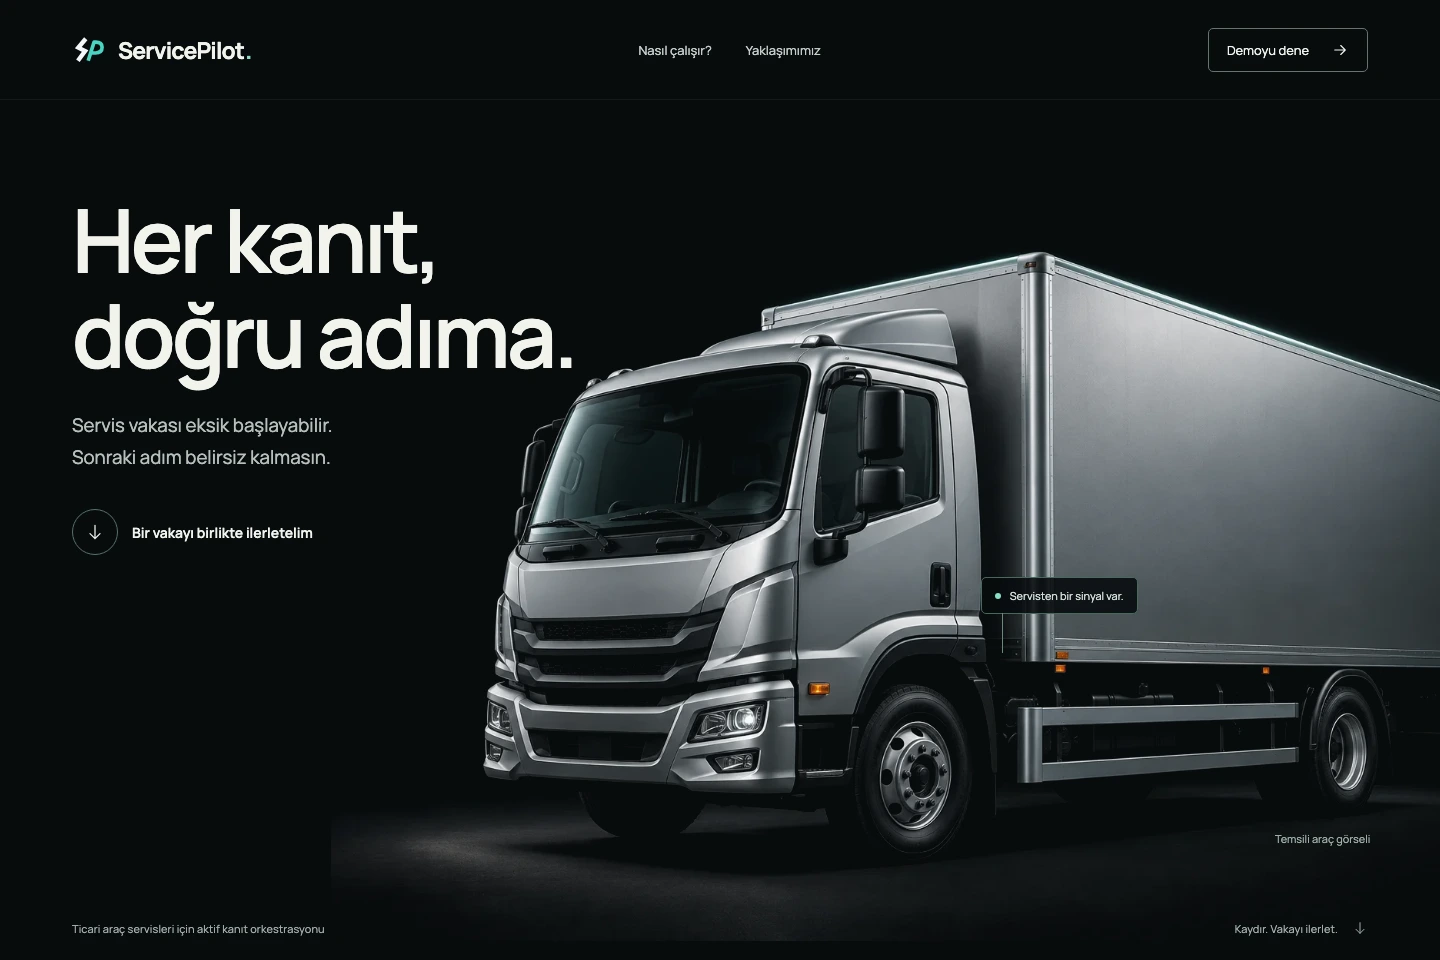
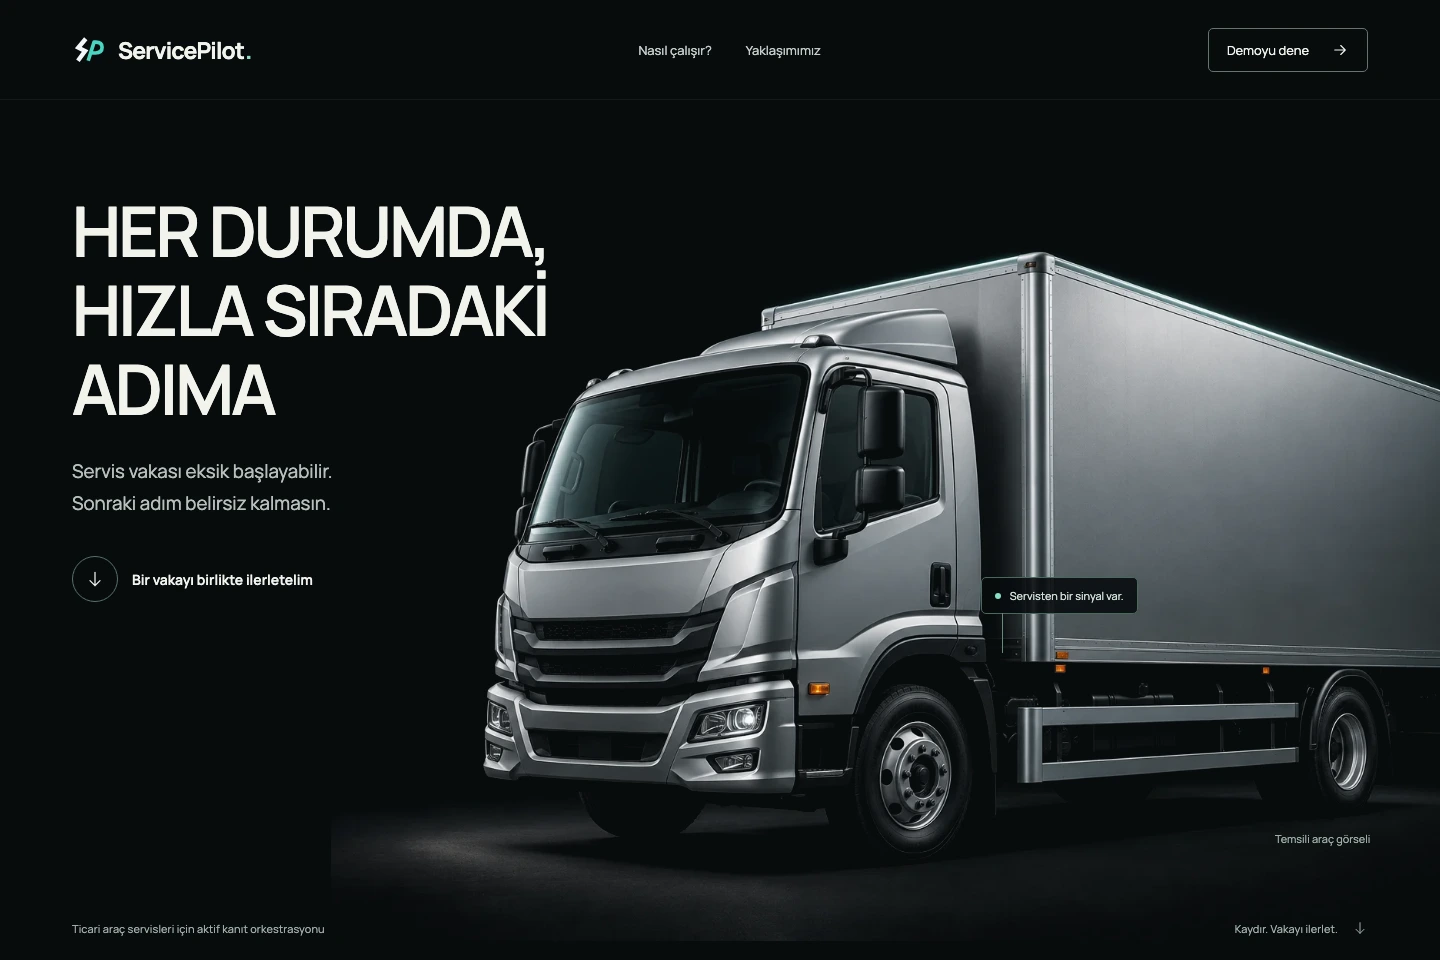
feat(landing): refine headline and publish architecture visuals [FR-23, NFR-10/11]
Refresh the README screenshot, retain the original README flow, and replace architecture Mermaid with custom Turkish SVG/PNG diagrams. Verified 25 Node tests, 23 Python tests, browser landing flow/fallbacks and image provenance.

Changed region(s): [[0.0312, 0.1875, 0.4062, 0.5625], [0.0938, 0.5938, 0.2188, 0.625]]

diff --git a/static/index.html b/static/index.html
@@ -5,7 +5,7 @@
   <meta name="viewport" content="width=device-width, initial-scale=1">
   <meta name="theme-color" content="#080c0e">
   <meta name="description" content="Bir servis vakasını kaydırarak ilerletin. ServicePilot ile eksik kanıttan risk kontrollü uzman yönlendirmesine uzanan karar döngüsünü keşfedin.">
-  <title>ServicePilot — Her kanıt, doğru adıma.</title>
+  <title>ServicePilot — HER DURUMDA, HIZLA SIRADAKİ ADIMA</title>
   <link rel="icon" href="assets/logo.svg" type="image/svg+xml">
   <link rel="preload" href="assets/manrope-latin-ext.woff2" as="font" type="font/woff2" crossorigin>
   <link rel="preload" href="assets/service-truck.webp" as="image" fetchpriority="high">
@@ -36,7 +36,7 @@
     <noscript><p class="no-script">JavaScript kapalı: aşağıda statik senaryo özetini okuyabilirsiniz. Etkileşimli karar döngüsü için JavaScript gerekir.</p></noscript>
     <section class="hero" aria-labelledby="hero-title">
       <div class="hero-copy">
-        <h1 id="hero-title">Her kanıt,<br>doğru adıma.</h1>
+        <h1 id="hero-title">HER DURUMDA,<br>HIZLA SIRADAKİ<br>ADIMA</h1>
         <p>Servis vakası eksik başlayabilir.<br>Sonraki adım belirsiz kalmasın.</p>
         <a href="#case-start" class="start-link"><span class="down-icon"><svg viewBox="0 0 24 24" aria-hidden="true"><path d="M12 4v16m-6-6 6 6 6-6"/></svg></span>Bir vakayı birlikte ilerletelim</a>
       </div>

diff --git a/static/landing.css b/static/landing.css
@@ -163,8 +163,8 @@ h2 {
   width:54%;
 }
 .hero h1 {
-  font-size:clamp(52px,6.1vw,94px);
-  line-height:1.08;
+  font-size:clamp(44px,4.8vw,74px);
+  line-height:1.14;
   max-width:660px;
 }
 .hero-copy>p {
@@ -1111,8 +1111,8 @@ html.lenis,html.lenis body {
     width:100%;
   }
   .hero h1 {
-    font-size:clamp(46px,10.8vw,72px);
-    line-height:1.1;
+    font-size:clamp(34px,9.8vw,60px);
+    line-height:1.16;
   }
   .hero-copy>p {
     font-size:14px;

diff --git a/docs/assets/README.md b/docs/assets/README.md
@@ -1,27 +1,28 @@
-# README media
+# Documentation media
 
-- `servicepilot-mark.svg`: existing `static/assets/logo.svg` monogram, unchanged paths, on a dark tile for GitHub light/dark readability. No new brand mark.
-- `landing.webp`: unaltered viewport screenshot of the published landing, 1440×960, captured 2026-10-31 during release verification of `0228975`. WebP quality 92.
-- `live-demo.webp`: unaltered viewport screenshot of the same published release's operational demo, 1440×960. One synthetic CAN case received real anonymous Jev HTTP 200 (`signal_source:jev`). WebP quality 94. Displayed probability and latency belong to that single illustrative case, not a performance/accuracy benchmark. No real customer data.
-- `decision-flow.svg`: original hand-authored vector description of the existing `app/jev.py`, `app/raep.py` and static/Worker flow. No measured results or performance figures. Safety rules bypass Jev; ordinary evidence updates re-enter the safety check and sensor/policy loop. ROUTE is an expert-team recommendation requiring confirmation, not automatic diagnosis or repair.
+- `servicepilot-mark.svg`: existing `static/assets/logo.svg` monogram on a dark tile. Original paths; no new brand mark.
+- `landing.webp`: actual **local** Chromium screenshot at `http://127.0.0.1:5187/`, 1440×960, captured 2026-11-01 with the selected headline **HER DURUMDA, HIZLA SIRADAKİ ADIMA**. Refined headline: 69.12px at 1440px viewport (line-height 1.14), 38.22px at 390px (line-height 1.16). WebP quality 92. No compositing or UI reconstruction; this is not a published-release capture.
+- `live-demo.webp`: unchanged screenshot of published release `0228975`, 1440×960, captured 2026-10-31. One synthetic CAN case received real anonymous Jev HTTP 200 (`signal_source:jev`). Probability and latency describe that single example, not accuracy/speed benchmarks. WebP quality 94; no real customer data.
+- `decision-flow.svg`: **original README flow design, unchanged**. Jev produces signals; RAEP selects the action; safety rules bypass Jev. Expert diagnosis, human confirmation and actual delivery are not automated by this diagram.
+- `architecture-components.svg` and `architecture-decision.svg`: custom vector diagrams with plain Turkish labels, authored against `app/main.py`, `app/jev.py`, `app/catalog.py` and `app/raep.py`. No Mermaid. Avenir Next with Arial/sans-serif fallbacks; warm paper, green for useful progress, amber for a check and coral for human intervention. Safety, unavailable inference, evidence loop, request limit and hierarchical fallback remain explicit.
+- `architecture-*.png`: 2× raster renders of those SVG sources, embedded directly in `specs/ARCHITECTURE.md` for Markdown-preview compatibility. PNG metadata records source and render provenance. Use the linked SVG to inspect at any zoom.
 
-Screenshots are re-used from the verified release captures `/tmp/servicepilot-release-landing.png` and `/tmp/servicepilot-release-demo.png`; they were not generated or reconstructed. No further provider request was made to create README media. The landing's representative truck is an original generated concept image; its prompt provenance is in `static/assets/service-truck.webp.json`.
+The landing screenshot is sourced from `/tmp/servicepilot-new-heading-1440.png`; the unchanged demo screenshot was sourced from `/tmp/servicepilot-release-demo.png`. No provider call was needed for this update. The truck is a labelled generated concept visual, not a partner vehicle; its original prompt is in `static/assets/service-truck.webp.json`.
 
 ## Regenerate
 
-The original README flow SVG is preserved. Architecture diagrams use native Mermaid blocks; formulas use Typst 0.14.2 (embedded Libertinus Serif / New Computer Modern Math; Arial for headings). The calligraphic `𝒮_e` is the evidence leaf set; plain `S_e` is the safety/operation cost. This disambiguates the notation without changing RAEP.
+Formulas use Typst 0.14.2 with embedded Libertinus Serif / New Computer Modern Math and Arial headings. Calligraphic `𝒮_e` is the evidence leaf set; plain `S_e` is safety/operation cost. The notation does not change RAEP.
 
 ```sh
 typst compile docs/assets/raep-formulas.typ 'docs/assets/raep-formula-{p}.svg'
-# Mermaid CLI 11.12.0 (documentation tooling only, not an app dependency):
-npx --yes @mermaid-js/mermaid-cli@11.12.0 \
-  -i specs/ARCHITECTURE.md -o /tmp/servicepilot-architecture.svg
+# librsvg 2.62.0; Avenir Next installed on the macOS rendering host:
+for name in architecture-components architecture-decision; do
+  rsvg-convert --zoom 2 "docs/assets/$name.svg" -o "docs/assets/$name.png"
+done
 ```
 
-For an existing Chrome/Chromium installation, pass `-p /path/to/puppeteer.json` containing `{"executablePath":"/absolute/path/to/chrome"}`. No browser path or tooling dependency is added to the app. Native Mermaid blocks in `specs/ARCHITECTURE.md` render directly on GitHub.
-
-Sources: [Typst math](https://typst.app/docs/reference/math/), [Mermaid flowcharts](https://mermaid.js.org/syntax/flowchart.html), [Mermaid CLI](https://github.com/mermaid-js/mermaid-cli).
+Edit the SVG sources directly, then regenerate the PNGs; keep the source/render provenance in PNG metadata via `impeccable embed-prompt` after rendering. No diagram dependency or build step is added to the app. See [Typst math](https://typst.app/docs/reference/math/) for formula syntax.
 
 ## Verification
 
-Screenshot provenance above is unchanged. Formula SVGs compile from the checked-in Typst source; both architecture Mermaid blocks render through Mermaid CLI. The README decision SVG retains its original design. Relative links and SVG XML are checked. Light/dark and mobile local GitHub-Markdown previews are reviewed; runtime files are unchanged. Fresh checks: 23 Python tests and 24 Node tests passed; one existing Starlette/httpx deprecation warning. Both Mermaid blocks render, the three Typst SVGs reproduce byte-for-byte, relative links resolve, and all images load in light/dark previews at 1000px and 390px without document overflow. These are local GFM previews, not a live-browser release check.
+2026-11-01: 23 Python and 25 Node tests passed (one existing Starlette/httpx deprecation warning). Landing browser checks passed at 1440/768/390px, including six chapters, safety toggle, reverse navigation, reduced motion, short screens, missing JS/vendors and old demo links; zero provider calls. The new headline also fits at 320px. Diagram text containment, SVG XML, PNG sizes, image links and local GFM light/dark previews at 1000px and 390px are checked. The original README decision-flow SVG is unchanged. These checks do not prove a public deployment.

diff --git a/specs/REQUIREMENTS.md b/specs/REQUIREMENTS.md
@@ -46,4 +46,4 @@ Her gereksinim bir kabul kriteri (AC) taşır. Kod değişiklikleri bu ID'lere r
 | NFR-8 | Dayanıklılık | Jev hatası/zaman aşımında vaka bozulmaz; adım `ESCALATE` (sebep: "Jev erişilemedi") olarak kaydedilir. |
 | NFR-9 | Statik yayın | GitHub Pages yalnız `static/` dosyalarını HTTPS ile `/ServicePilot/` altında yayımlar. Anahtar, SQLite ve Python kaynakları yayın artifact'ına girmez. Statik mod canlı Jev gibi sunulmaz. `main` güncellemeleri ve manuel tetikleme aynı kontrollü workflow'u kullanır. |
 | NFR-10 | Landing erişilebilirliği | Klavye ile bölüm seçimi, görünür odak, semantik anlatı, 390/768/1440px taşmasız düzen. Azaltılmış hareket veya animasyon kütüphanesi yokluğunda tüm adımlar normal belge akışında okunur. Yerel vendor dosyaları ve fontlar; build adımı gerekmez. |
-| NFR-11 | Görsel proje tanıtımı | README; gerçek logo/ekran görüntüleri, rozetler, kısa açıklamalar ve oklarla sıralı karar akışı SVG’si içerir. Jev sinyali, RAEP kararı, güvenlik bypass’ı, kanıt döngüsü ve canlı/temsili ayrımı korunur. Mimari formülleri Typst kaynağından SVG olarak üretilir; mimari akışlar Mermaid kaynağıyla korunur ve SVG yeniden üretim komutları belgelenir. Kurulum ve operasyon belgelerine erişim kaybolmaz; doğrulanmamış performans/ortaklık/lisans iddiası eklenmez. |
+| NFR-11 | Görsel proje tanıtımı | README; gerçek logo/ekran görüntüleri, rozetler, kısa açıklamalar ve oklarla sıralı karar akışı SVG’si içerir. Jev sinyali, RAEP kararı, güvenlik bypass’ı, kanıt döngüsü ve canlı/temsili ayrımı korunur. Mimari formülleri Typst kaynağından SVG olarak üretilir; Mimari diyagramları sade Türkçeyle özel SVG olarak çizilir; PNG çıktıları Markdown önizlemesinde gösterilir ve yeniden üretim komutları belgelenir. README akış SVG’si korunur; landing ekran görüntüsü güncel başlığı yansıtır. Kurulum ve operasyon belgelerine erişim kaybolmaz; doğrulanmamış performans/ortaklık/lisans iddiası eklenmez. |

diff --git a/.impeccable/surfaces/static-index-html.md b/.impeccable/surfaces/static-index-html.md
@@ -13,7 +13,7 @@ Mode: Persuade / Experience. User confirmed code-first. User rejected a link-led
 THESIS: One incomplete commercial-vehicle case becomes a prepared expert handoff through scrolling. Refuse the feature-card landing and fake AI diagnosis.
 OWN-WORLD: Midnight service bay (#080c0e), ivory #f2f4ed, mint #86e1c4, muted steel #a0afa9, amber #edc17b and safety coral #f3a291. Self-hosted Manrope. Wide photographic opening, precise vector signal paths, oversized physical measurement, no dashboard chrome as the entire page.
 STORY: A technician's note and DTC become Jev-shaped fixture probabilities. Actual RAEP selects the useful next evidence. A synthetic 120Ω result changes the evaluation and routes to ECU/CAN. A risk alternative goes directly to a human. No backend calls or storage.
-FIRST VIEWPORT: Quiet horizontal brand/navigation, large left-aligned 2-line promise, unbranded commercial-truck studio photograph occupying the lower-right, short narrative start control. Next section shows a persistent evidence stage beside six short chapters.
+FIRST VIEWPORT: Quiet horizontal brand/navigation, large left-aligned 3-line promise, unbranded commercial-truck studio photograph occupying the lower-right, short narrative start control. Next section shows a persistent evidence stage beside six short chapters.
 FORM: Brief-pinned sequential service journey; code-first. Surface roll acknowledged; unrelated zoo/theatre/cloud challengers declined because they replace the user's explicit dark vehicle-service explanation with unrelated worlds. Borrow temporal continuity, not their appearance. seed: none (surface composition is explicitly pinned by user).
 FINISH: in-thread rendered review completed; docs/landing/DESIGN.md and .impeccable/design.json document the built surface. Existing root DESIGN.md is preserved. The generated truck carries exact prompt provenance in its sidecar.
 

diff --git a/docs/landing/DESIGN.md b/docs/landing/DESIGN.md
@@ -14,7 +14,7 @@ typography:
   display:
     fontFamily: "Manrope, sans-serif"
     fontWeight: 600
-    lineHeight: 1.08
+    lineHeight: 1.14
     letterSpacing: "-0.04em"
   body:
     fontFamily: "Manrope, sans-serif"
@@ -33,7 +33,7 @@ Persuade / Experience, scoped only to static/index.html and landing.css/js. The 
 Mint means useful evidence and forward motion; amber means insufficient evidence; coral means the safety gate. State is also written in text. Ivory headings and muted steel descriptions sit on near-black; no gradient type or decorative glow.
 
 ## Typography
-Self-hosted Manrope variable Latin + Turkish coverage. Hero 52–94px desktop, 46–72px mobile. Chapter headings 30–54px. Body 12–19px, compact metadata floor 11px. Measurement is deliberately oversized and tabular. No monospace costume.
+Self-hosted Manrope variable Latin + Turkish coverage. Hero 44–74px desktop (line-height 1.14), 34–60px mobile (line-height 1.16). The selected promise is “HER DURUMDA, HIZLA SIRADAKİ ADIMA”, composed in three lines; the smaller mobile floor keeps it readable at 320px. Chapter headings 30–54px. Body 12–19px, compact metadata floor 11px. Measurement is deliberately oversized and tabular. No monospace costume.
 
 ## Layout
 Opening: large left promise and unbranded concept truck lower-right. The six-step story is a persistent visual stage beside short chapters, not feature cards. At ≤700px the chapter text occupies the top of the stage and the evidence fills the rest. At <800px height or reduced-motion preference, scenes become normal-flow reading sections. No custom scroll container or mandatory scroll snapping.

diff --git a/specs/PLAN.md b/specs/PLAN.md
@@ -100,3 +100,20 @@ Durum: `[ ]` yapılacak · `[x]` bitti. Her görev gereksinim ID'si taşır.
 - [x] RAEP formüllerini Typst kaynağı ve SVG renderlarıyla sunma; politika matematiğini koruma
 - [x] Mimari akışları Mermaid ile sunma; README SVG’sini olduğu gibi koruma
 - [x] Render/bağlantı doğrulaması ve yalnız ilgili dokümantasyonu commit/push
+
+## M15 — Mimari önizleme uyumluluğu [NFR-11]
+- [x] Mermaid kaynaklarını ayrı dosyalarda tutup mimari belgesinde render edilmiş SVG gösterme
+- [x] Kaynak/render, görsel yükleme ve README SVG’sinin değişmediğini doğrulama
+
+## M16 — Anlaşılır diyagramlar ve yeni landing başlığı [FR-23, NFR-10/11]
+M14/M15’in Mermaid sürümleri bu adımda özel SVG/PNG ile değiştirilmiştir.
+- [x] Kullanıcının seçtiği başlık; mobil/masaüstü okunabilirlik ve güncel README ekran görüntüsü
+- [x] Sade Türkçe özel SVG mimari diyagramları ve PNG renderları; README akışını koruma
+- [x] Görsel/bağlantı, RAEP karar sırası ve landing regresyon doğrulaması
+
+- [x] Başlık puntosunu küçültme ve README ekran görüntüsünü yeniden alma [NFR-10/11]
+- [x] Başlığı hafif büyütme, satır aralığını açma ve README görselini eşitleme [NFR-10/11]
+
+## M17 — Onaylı başlık ve dokümantasyon yayını [FR-23, NFR-9/10/11]
+- [x] Son tipografi, README görseli ve mimari kaynak/render regresyon kontrolü
+- [ ] İlgili değişiklikleri commit/push; başarılı Pages workflow ve canlı başlık/demo yolu doğrulaması

diff --git a/README.md b/README.md
@@ -19,7 +19,7 @@
 ServicePilot helps commercial-vehicle service teams turn incomplete cases into **useful evidence requests and prepared expert handoffs**. It is a decision layer, not a fault-diagnosis bot.
 
 <a href="https://alperkartkaya.github.io/ServicePilot/">
-  <img src="docs/assets/landing.webp" alt="ServicePilot landing: a commercial vehicle and a scroll-driven service-case story" width="960">
+  <img src="docs/assets/landing.webp" alt="ServicePilot landing: HER DURUMDA, HIZLA SIRADAKİ ADIMA — a commercial vehicle and a scroll-driven service-case story" width="960">
 </a>
 
 ## Jev measures. RAEP decides.
